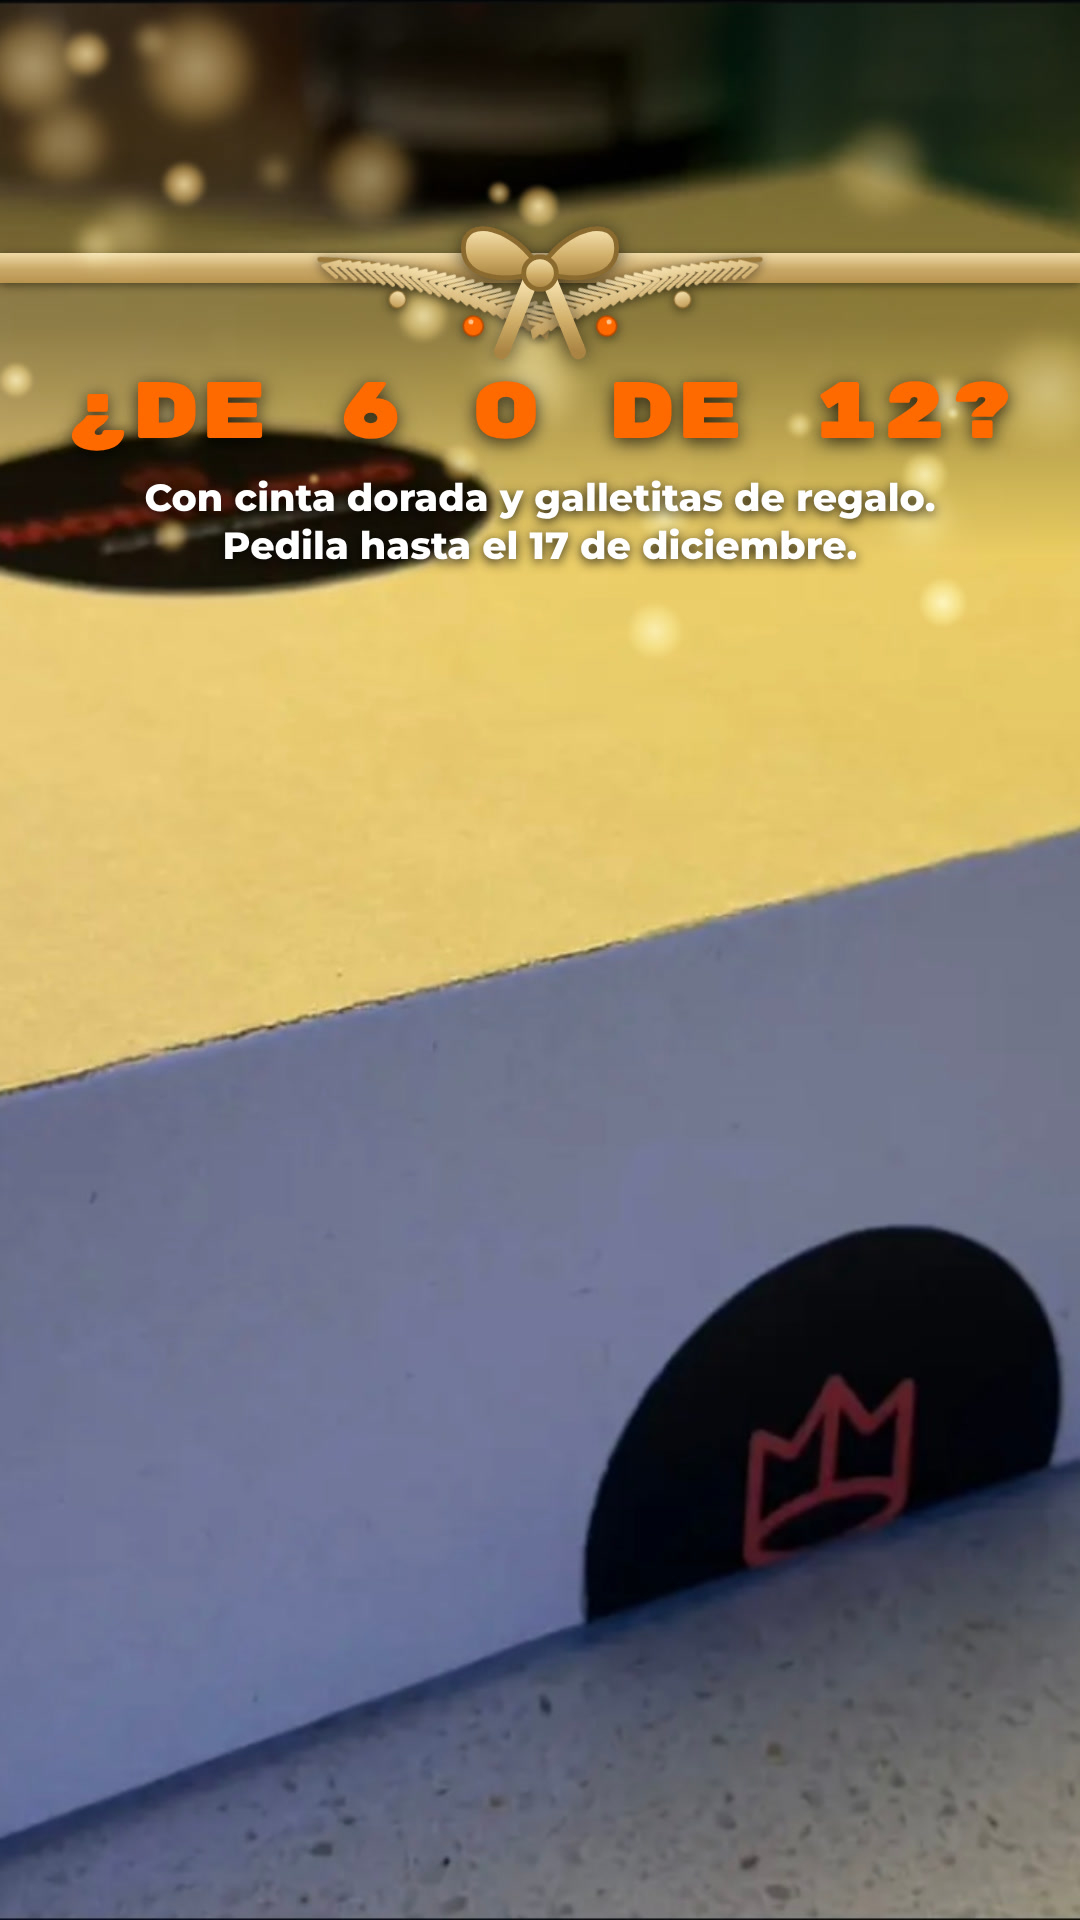
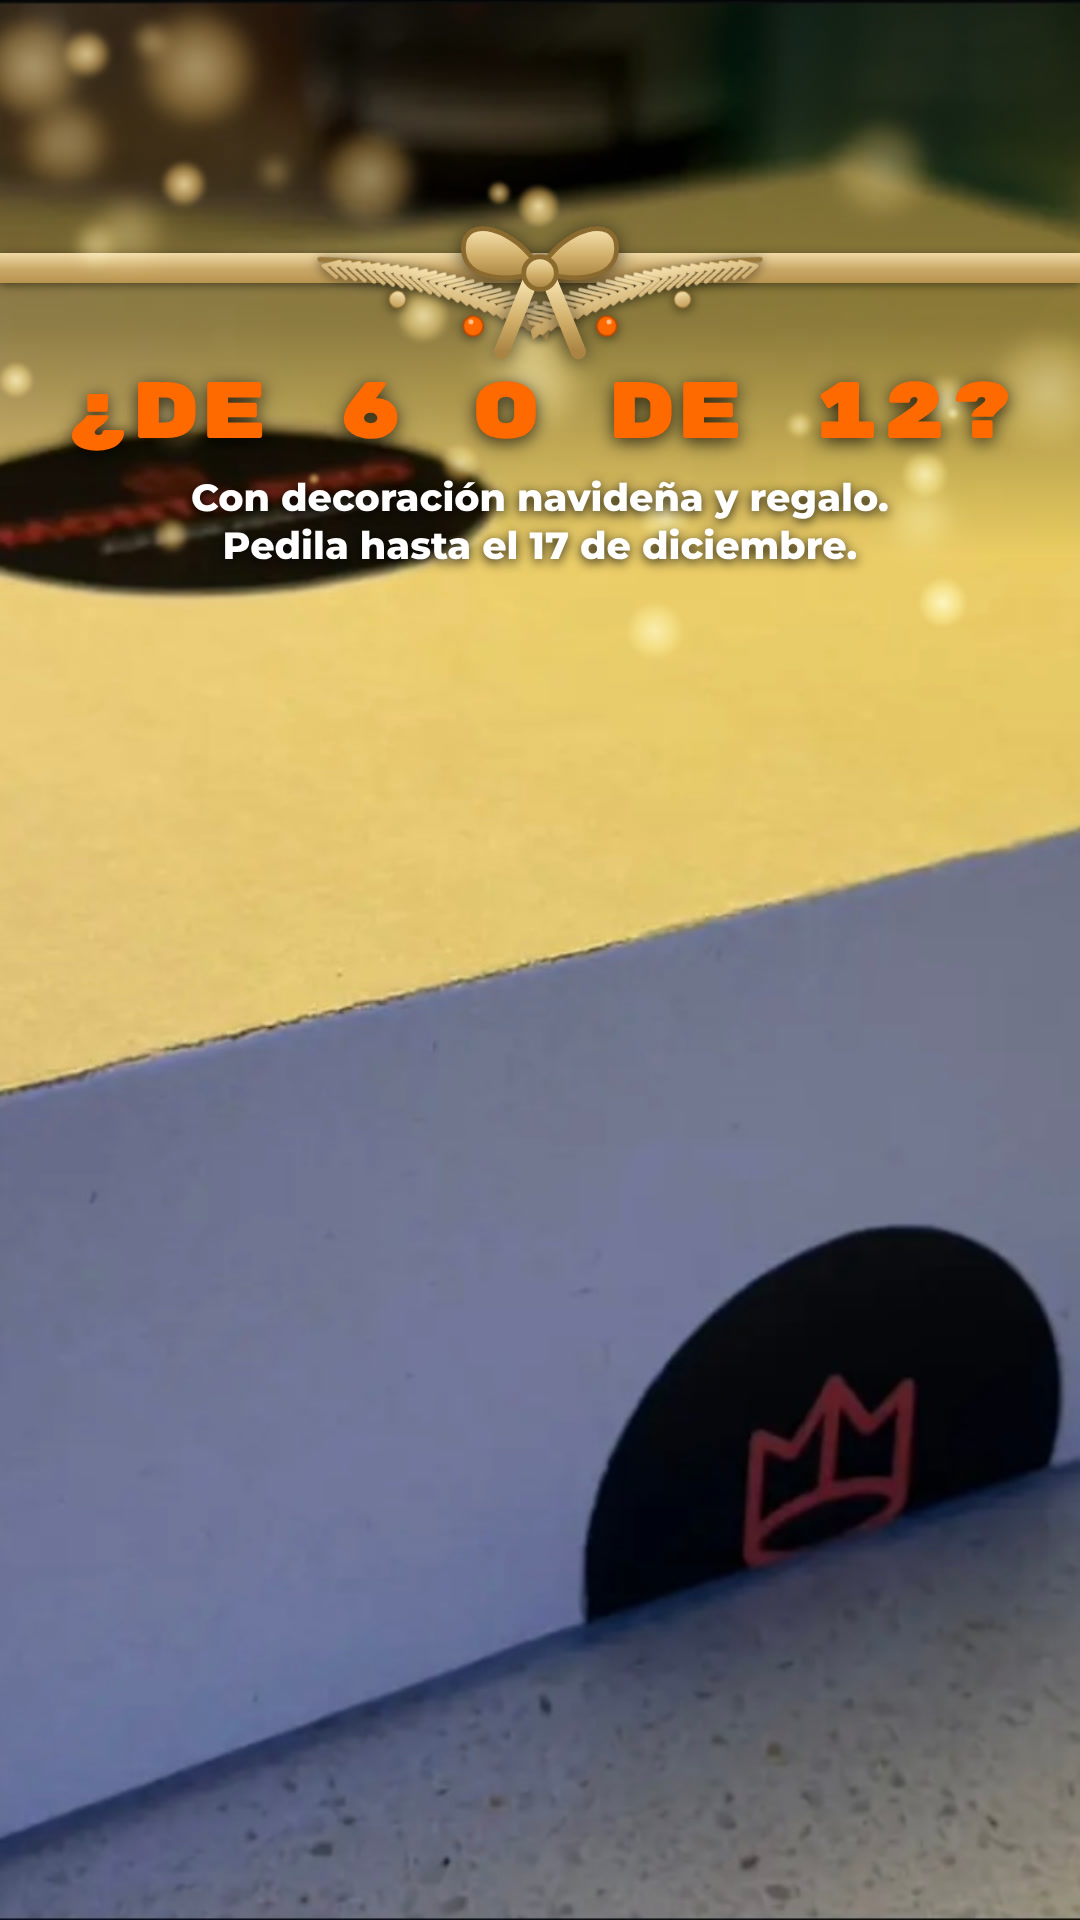
Historias del martes 24: Tomás eligió la versión con luces y cambió los textos de la 1 y la 3
Claude-Session: https://claude.ai/code/session_01D8Nbkoy92Er6fjtdTNgD5r

Changed region(s): [[0.1222, 0.25, 0.8861, 0.2812]]

diff --git a/monte-riko/historias-noviembre/README.md b/monte-riko/historias-noviembre/README.md
@@ -124,7 +124,7 @@ Tomás no subió las del lunes 23, así que hoy van esas mismas tres, rehechas c
 - `mar-24-navidad-2.jpg`: ¿A QUIÉN LE REGALARÍAS UNA CAJA? **Sticker:** caja de preguntas, arriba (la mitad de arriba es fondo).
 - `mar-24-navidad-3.jpg`: ¿DE 6 O DE 12? "Con cinta dorada y galletitas de regalo. Pedila hasta el 17 de diciembre." **Sticker:** encuesta De 6 / De 12 y enlace a monteriko.com.ar, sobre la caja blanca de abajo.
 
-- **Prueba con luces (24/11/2026, la pidió Tomás):** `mar-24-navidad-luces-1` a `-3`, iguales pero con luces doradas desenfocadas en las partes vacías y ramitas de pino doradas con esferitas al lado del moño (`nube/navidad-luces.html`). Tomás elige cuál versión sube.
+- **Prueba con luces (24/11/2026, la pidió Tomás):** `mar-24-navidad-luces-1` a `-3`, iguales pero con luces doradas desenfocadas en las partes vacías y ramitas de pino doradas con esferitas al lado del moño (`nube/navidad-luces.html`). **Tomás eligió la de luces** (24/11/2026) y cambió textos: la 1 dice "Te espera la caja navideña." y la 3 "Con decoración navideña y regalo. Pedila hasta el 17 de diciembre." Para diciembre, las historias navideñas van en este estilo.
 
 ### Mar 24 (plan viejo, no se usó): Reel por dentro
 - `mar-24-1.jpg`: ASÍ SE ABRE UN MONTE RIKO
